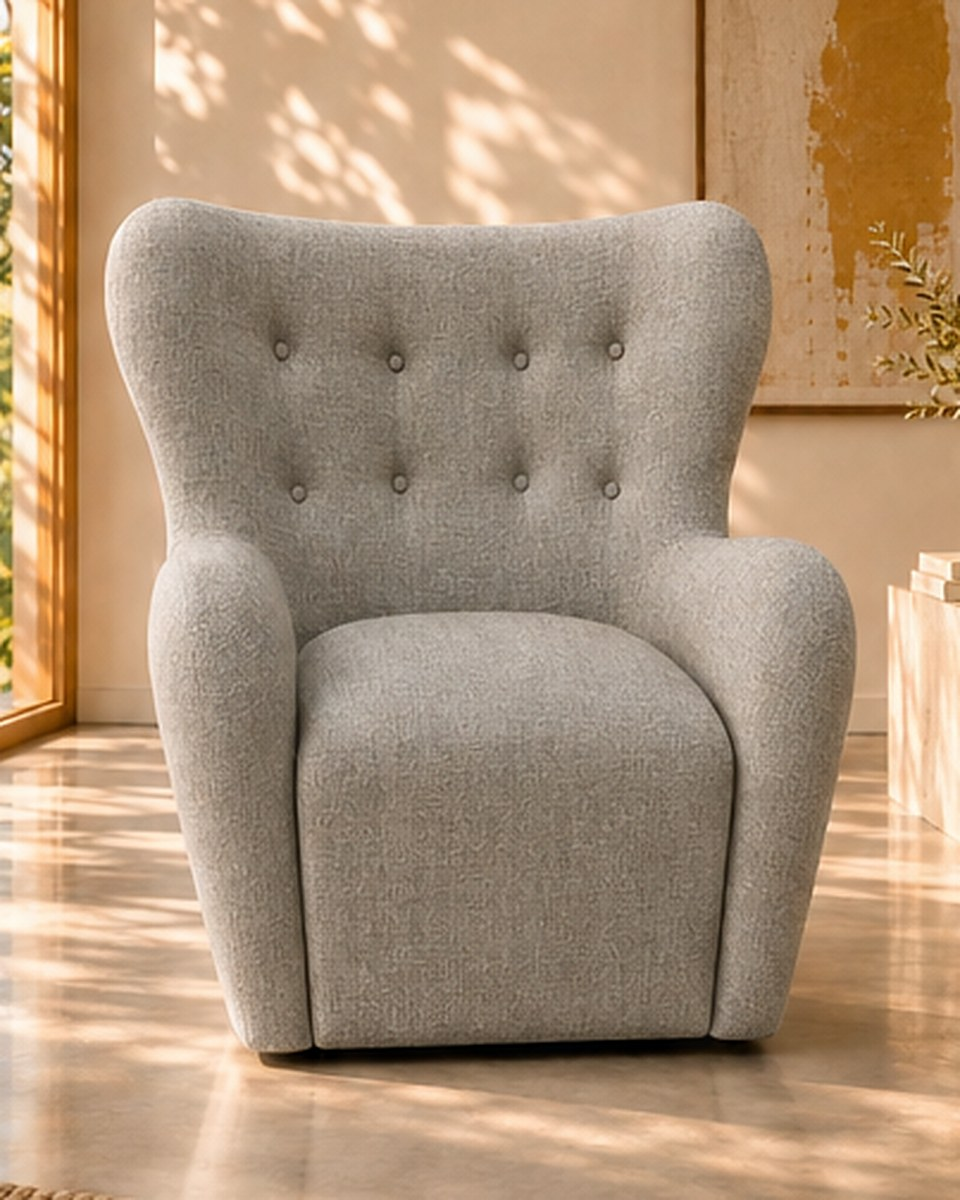
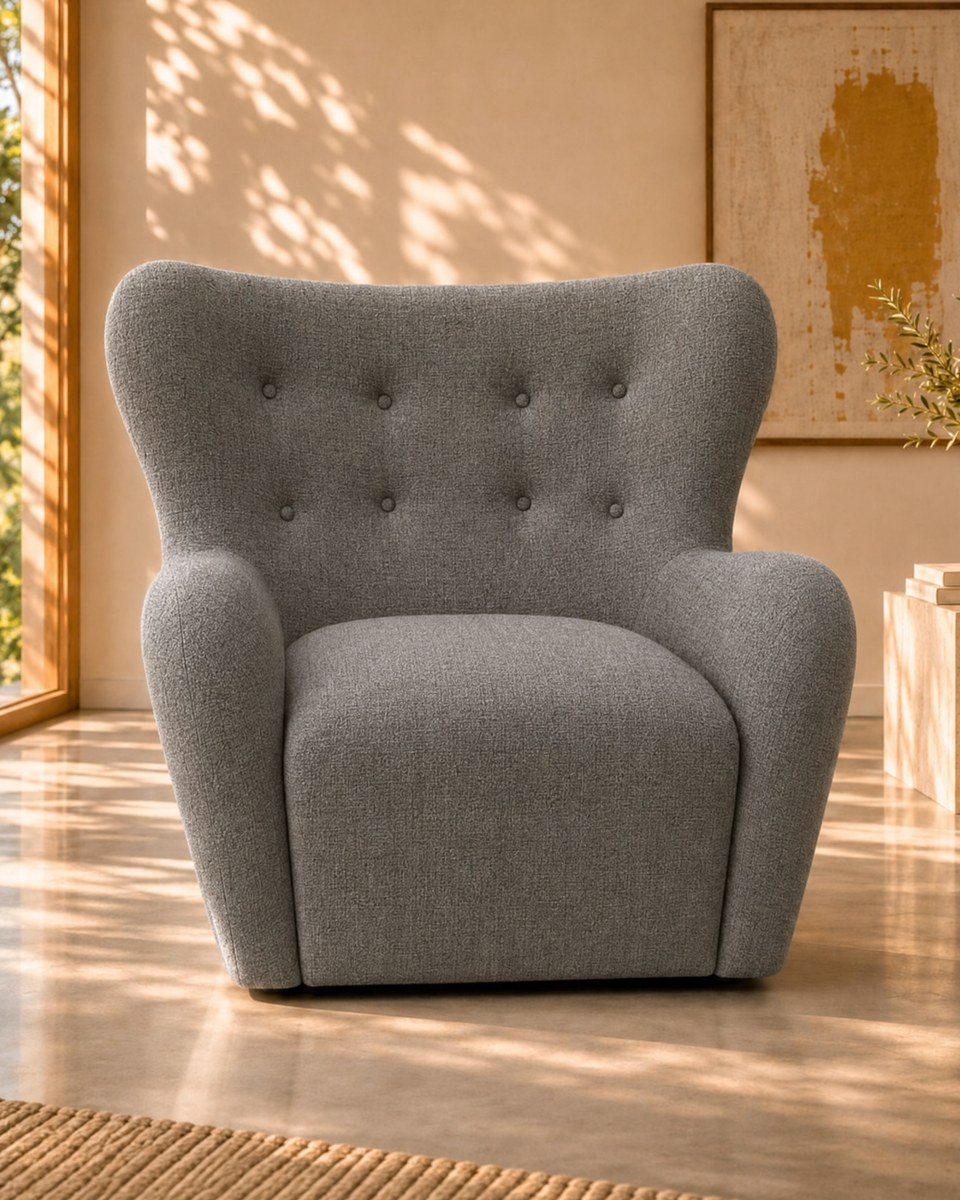
Pembroke: new Flint render (right shape) and the Reed render; only Saddle still recolored (#211)
Claude-Session: https://claude.ai/code/session_01V26sLvBUhfDUUry7zd4PU8

diff --git a/lib/products.ts b/lib/products.ts
@@ -308,11 +308,11 @@ const ALL_PRODUCTS: Product[] = [
     // Fabrics (Tessa, Nov 23): the Marlowe's Irish Linen in all eight of its colors and names, plus the Nook's cover
     // fabric (Belgian linen and wool) in the Nook's three colors. Organic Cotton is off the Pembroke. One price for both.
     // Photos (Tessa, Nov 23): renders of the real chair (Higgsfield, from pembroke-hero) in each color, then the
-    // real photo. Reed, Saddle and Flint have no render yet (Saddle and Flint came out the wrong shape and are being
-    // remade, Tessa Nov 23): they show pembroke-hero recolored (public/tint/pembroke-hero.png). The older
+    // real photo. Saddle has no render yet (the first one came out the wrong shape and is being remade, Tessa Nov 23):
+    // it shows pembroke-hero recolored (public/tint/pembroke-hero.png). The older
     // pembroke-blend/-belgian/-cotton/-1/-2 files show a different chair and stay off the page.
     photos: [
-      "pembroke-irish-fleece", "pembroke-irish-oat", "pembroke-irish-chalk", "pembroke-irish-flax", "pembroke-irish-fawn",
+      "pembroke-irish-fleece", "pembroke-irish-oat", "pembroke-irish-reed", "pembroke-irish-flax", "pembroke-irish-chalk", "pembroke-irish-fawn", "pembroke-irish-flint",
       "pembroke-belgian-olive", "pembroke-belgian-oat", "pembroke-belgian-toffee",
       "pembroke-hero",
     ],
@@ -323,6 +323,8 @@ const ALL_PRODUCTS: Product[] = [
       "pembroke-irish-chalk": { fabric: "irish", color: "ivory" },
       "pembroke-irish-flax": { fabric: "irish", color: "oatmeal" },
       "pembroke-irish-fawn": { fabric: "irish", color: "sand" },
+      "pembroke-irish-flint": { fabric: "irish", color: "dove" },
+      "pembroke-irish-reed": { fabric: "irish", color: "flax" },
       "pembroke-belgian-olive": { fabric: "belgian", color: "moss" },
       "pembroke-belgian-oat": { fabric: "belgian", color: "ivory" },
       "pembroke-belgian-toffee": { fabric: "belgian", color: "coco" },

diff --git a/lib/photos.ts b/lib/photos.ts
@@ -228,6 +228,7 @@ import pembroke1 from "@/assets/photos/pembroke-1.jpg";
 import pembrokeHero from "@/assets/photos/pembroke-hero.jpg";
 import pembroke2 from "@/assets/photos/pembroke-2.jpg";
 import pembrokeIrishFleece from "@/assets/photos/pembroke-irish-fleece.jpg";
+import pembrokeIrishReed from "@/assets/photos/pembroke-irish-reed.jpg";
 import pembrokeIrishOat from "@/assets/photos/pembroke-irish-oat.jpg";
 import pembrokeIrishChalk from "@/assets/photos/pembroke-irish-chalk.jpg";
 import pembrokeIrishFlax from "@/assets/photos/pembroke-irish-flax.jpg";
@@ -465,6 +466,7 @@ export const PHOTOS = {
   "pembroke-hero": pembrokeHero,
   "pembroke-2": pembroke2,
   "pembroke-irish-fleece": pembrokeIrishFleece,
+  "pembroke-irish-reed": pembrokeIrishReed,
   "pembroke-irish-oat": pembrokeIrishOat,
   "pembroke-irish-chalk": pembrokeIrishChalk,
   "pembroke-irish-flax": pembrokeIrishFlax,
